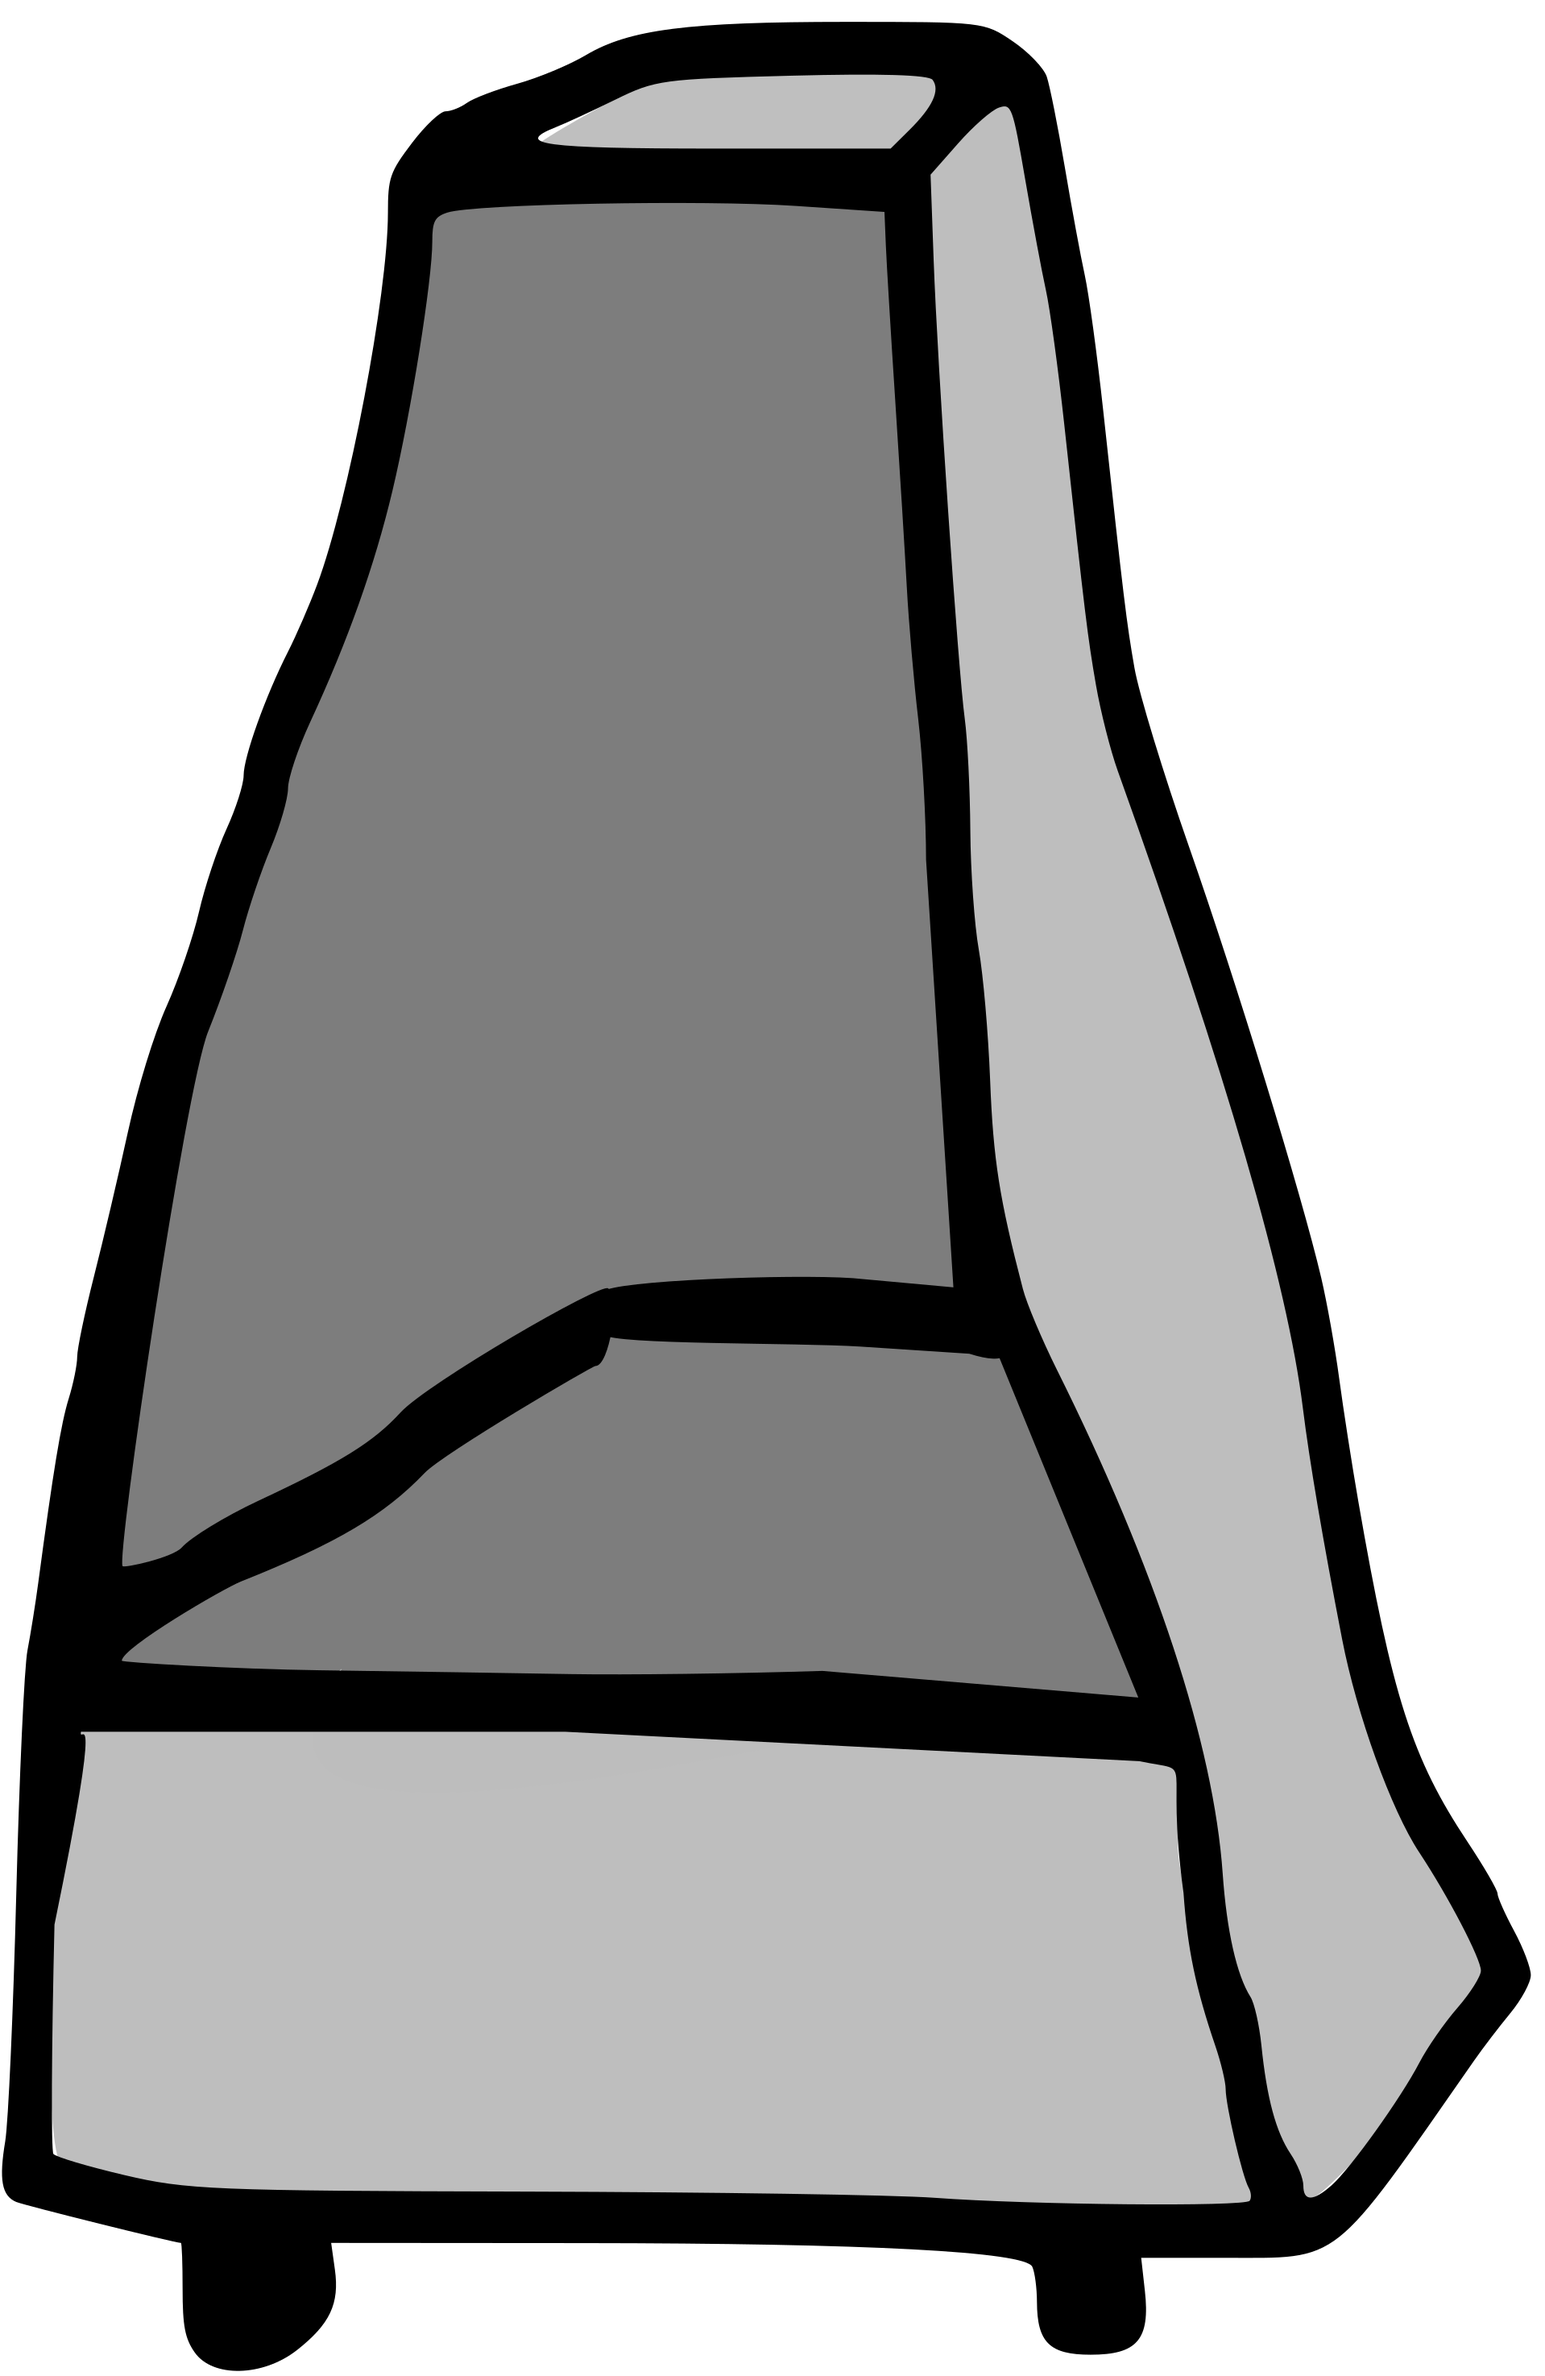
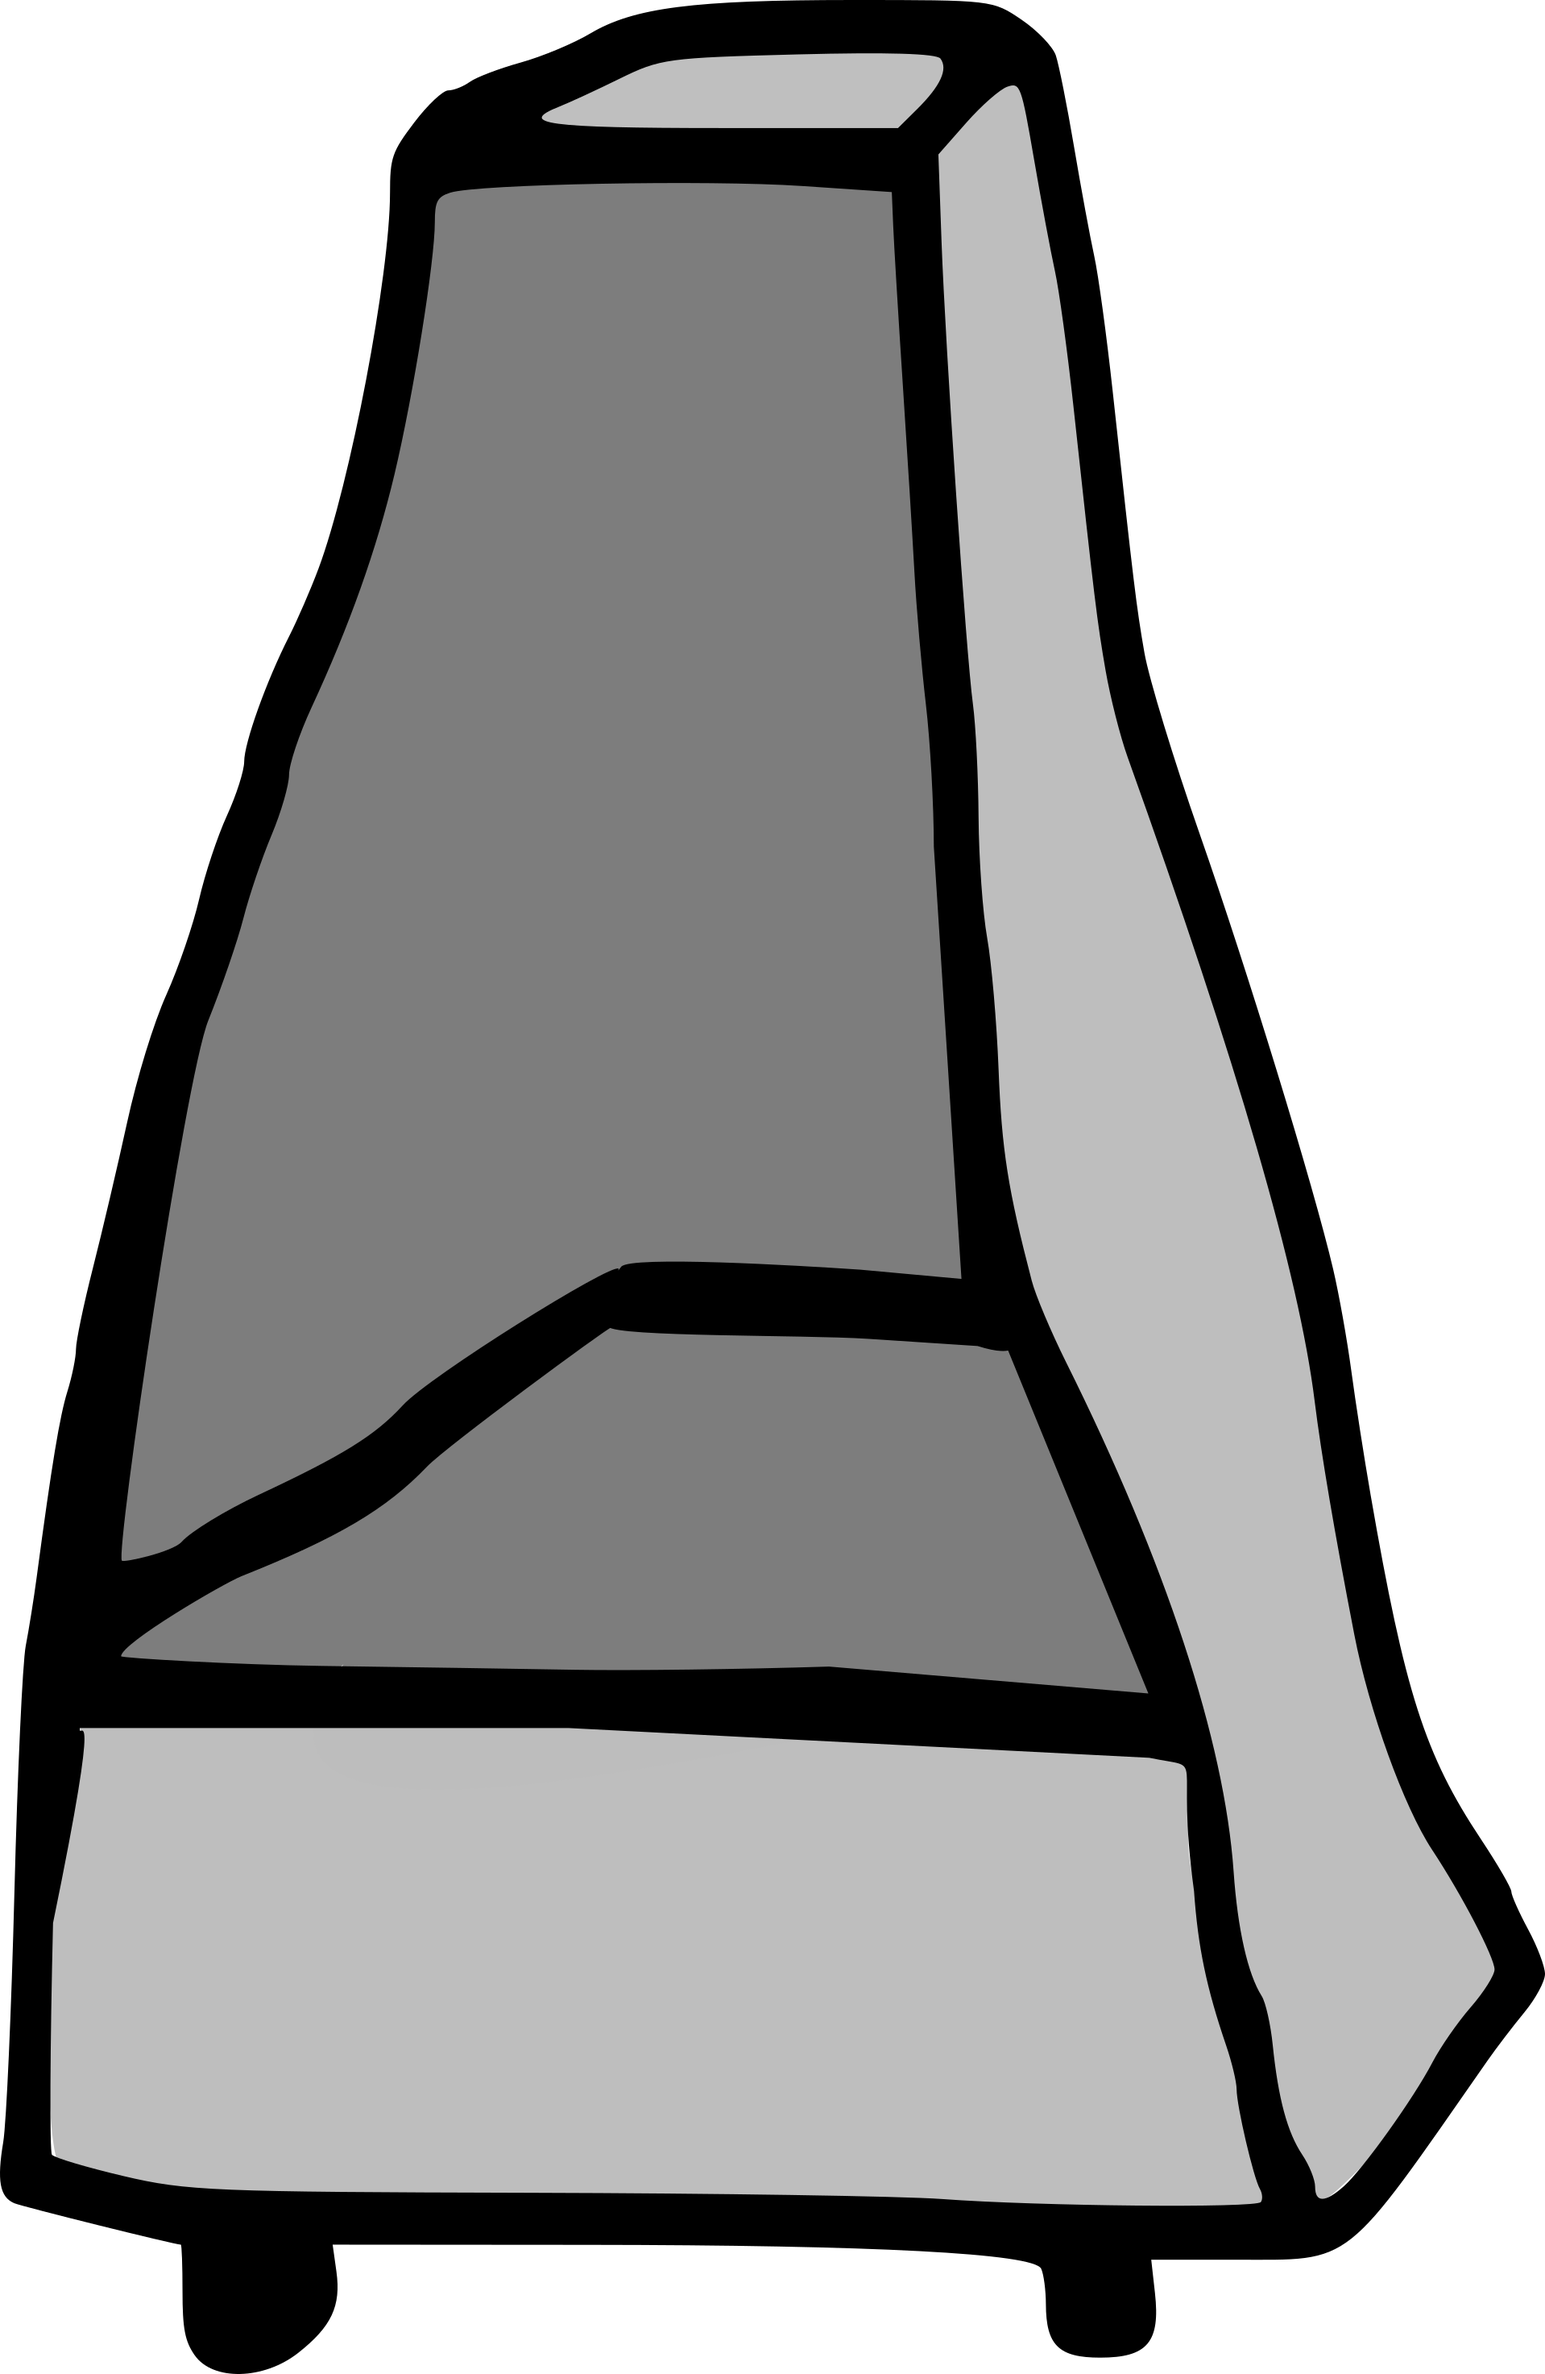
Improved background image

diff --git a/src/MainWindow.qml b/src/MainWindow.qml
@@ -155,7 +155,7 @@ Window {
 
     Rectangle { // cover for lover pendulum end
       color: "black"
-      width: parent.width * 0.2; height: parent.width / 24
+      width: parent.width * 0.2; height: parent.width / 27
       x: parent.width * 0.3; y: parent.height * 0.703
     }
 
